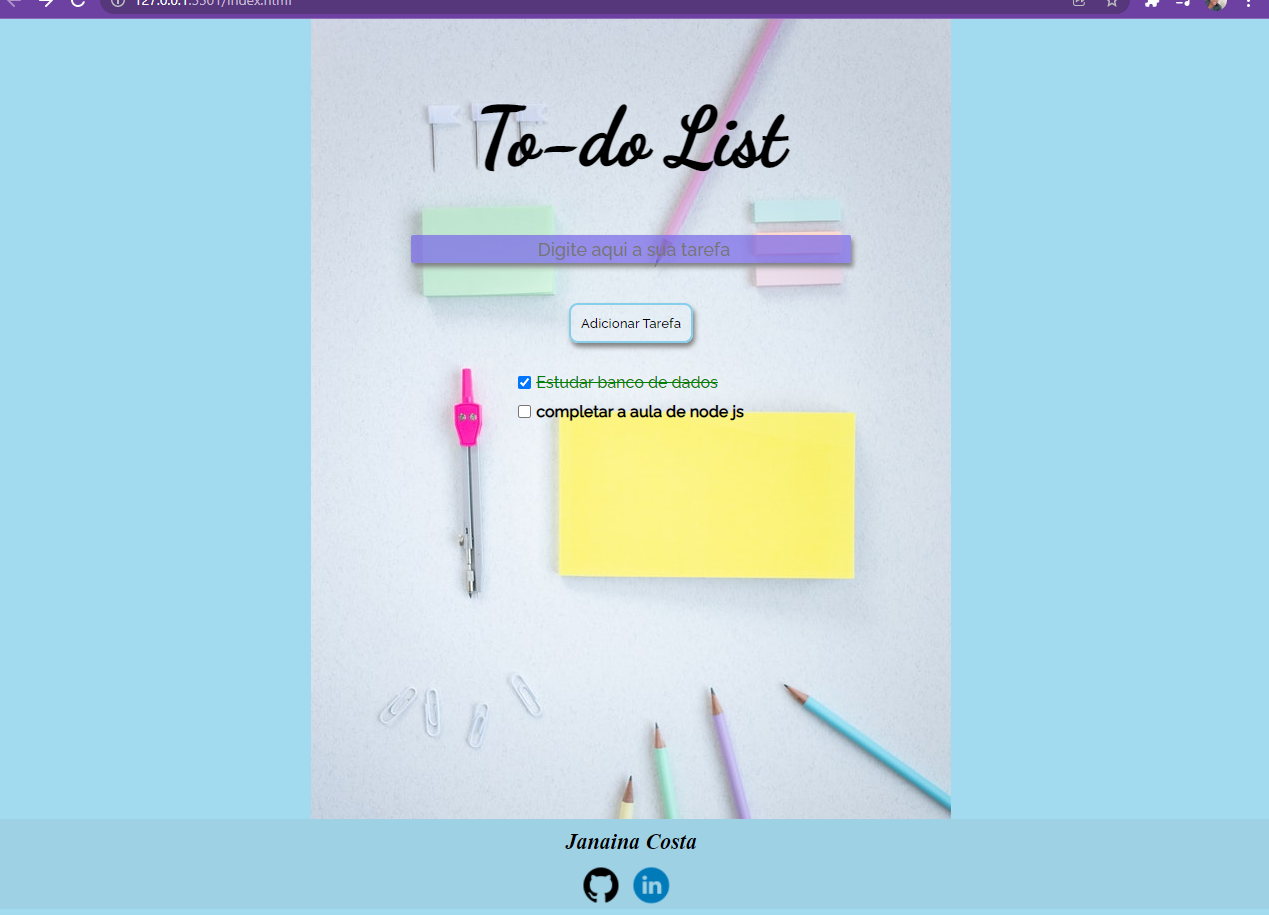
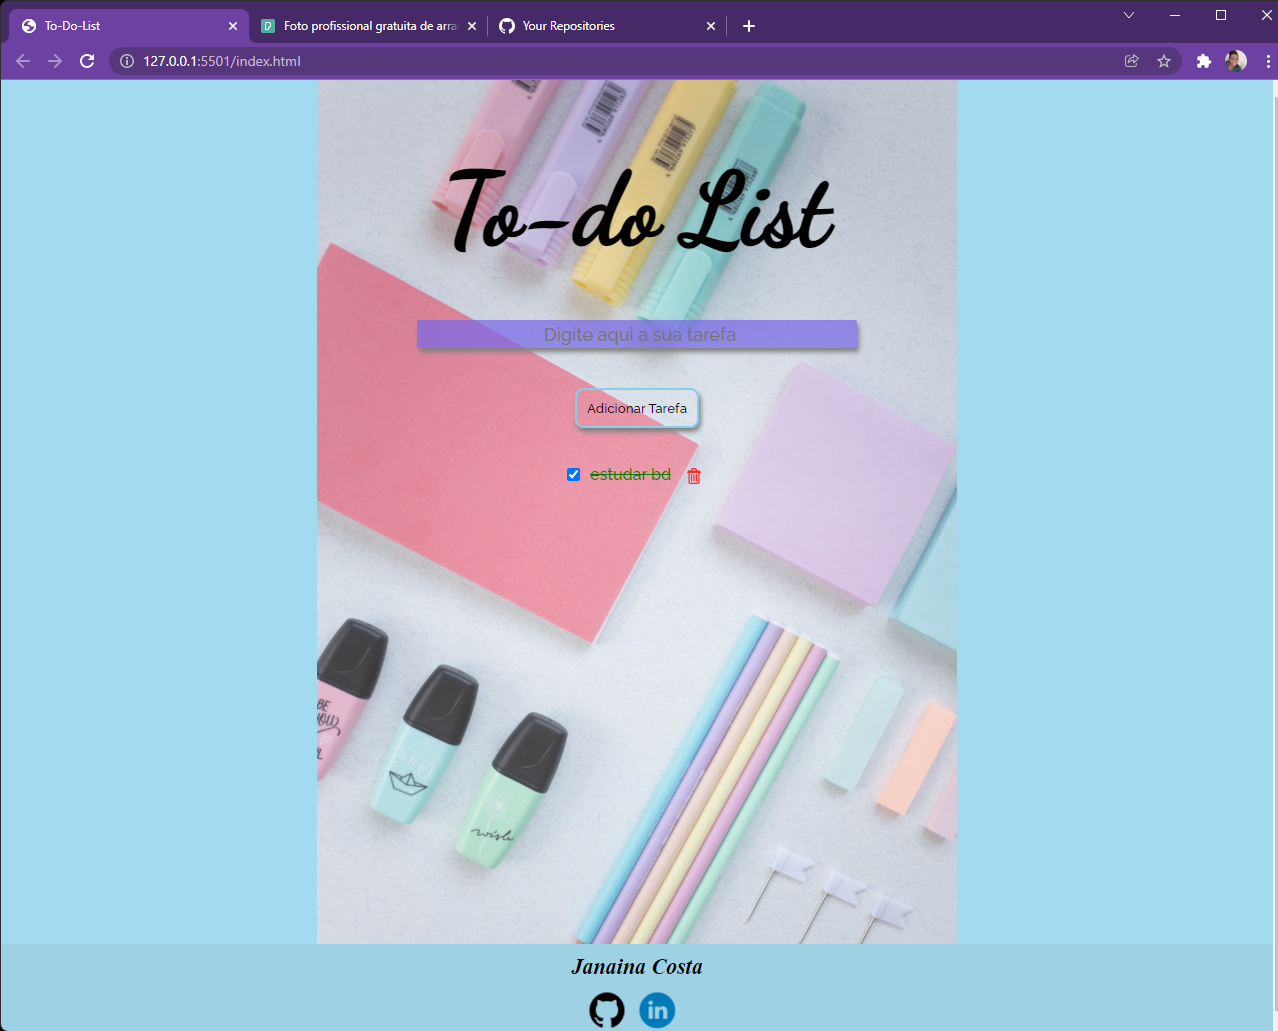
refatorado

diff --git a/assets/index.js b/assets/index.js
@@ -1,50 +1,141 @@
 
 const btnAdd = document.getElementById('btn-add')
 const lista = document.querySelector('#lista')
+//const excluirarefa = document.getElementById('excluir')
 
 
-btnAdd.addEventListener('click', (e, limite)=>{
+let limite = 5
+
+
+btnAdd.addEventListener('click', (e, tarefinha)=>{
     e.preventDefault()
-
+    
     const tarefa = document.getElementById('tarefa')
-    addTarefa(tarefa.value)
     
-    tarefa.value = ''
+    if(tarefa.value){
+        addTarefa(tarefa.value)
+
+    }else if(tarefa.value === ''){
+        tarefa.setAttribute('placeholder', `Preecha o campo antes de adicionar a tarefa \u{1F913}`)
+        //alert(`Preecha o campo antes de adicionar a tarefa \u{1F913}`)
+
+        tarefa.value = ''
+        
+    }
+
+    tarefa.addEventListener('focus', ()=>{
+        tarefa.setAttribute('placeholder', 'Digite aqui a sua tarefa')
+    })
+
     
+    tarefa.value = ''    
 
  })
 
+ /**   add tarefas a lista         */
+ 
+
 const addTarefa = (tarefinha)=>{
+
+    /**criando os elementos */
     
     const listaContainer = document.createElement('div')
     const novoInput = document.createElement('input') 
     const novoBr = document.createElement('br')
     const novaLabel = document.createElement('label')
     const textoLabel = document.createTextNode(tarefinha)
-
+    const btnExclusao = document.createElement('button')
+    const imagem = document.createElement('img')
     
+    const tarefa = document.getElementById('tarefa')
 
     novoInput.type = 'checkbox'
     novoInput.name = tarefinha
     novoInput.id= tarefinha
     
+    imagem.src = './assets/img/icon-exclud.png'
+    imagem.alt='Botao de excluir'
+    imagem.classList.add('img-config')
+
+    btnExclusao.appendChild(imagem)
+    btnExclusao.classList.add('btn-exclusao')
+  
 
     novaLabel.for = tarefinha
     novaLabel.appendChild(textoLabel)
+    // novaLabel.appendChild(btnExclusao)
 
     listaContainer.classList.add('delete')
-    listaContainer.appendChild(novoBr)
+    //listaContainer.appendChild(novoBr)
     listaContainer.appendChild(novoInput)
     listaContainer.appendChild(novaLabel)
+    listaContainer.appendChild(btnExclusao)
 
-    lista.appendChild(listaContainer)
+    lista.appendChild(listaContainer)   
+
+     /**================================================= */
+    /**limitando o tamanho da lista */
+
+    let lenghtLista = lista.children.length
     
-   
+    
+    if(lenghtLista>=limite && !novoInput.checked){
+        tarefa.disabled = true
+    }
+    
+    const controleLista = ()=>{
+        if(lenghtLista>limite ){
+            tarefa.disabled = true
+         }else if(lenghtLista<=limite) {
+            
+             tarefa.disabled = false
+        }
+    }
+    /**================================================= */
 
+
+    /**================================================= */
+    /**checando lista */
+
+    console.log(lenghtLista);
+    novoInput.addEventListener('change',(e)=>{
+       
+        e.preventDefault()
+       
+        limite+=1
+        
+        controleLista()
+        
+    })
+
+    /**================================================= */
+
+    /**================================================= */
+    /**tentando deletar elemento */
+    btnExclusao.addEventListener('click', (e)=>{
+        e.preventDefault()
+        
+        console.log(`limite${limite}`);
+        console.log(`tamanho${lenghtLista}`);
+        
+        
+        listaContainer.childNodes.forEach((item)=>{
+           
+           item.replaceWith('') 
+           lenghtLista= (limite -lenghtLista )-1
+           if(lenghtLista<=limite || controleLista()){
+               
+               tarefa.disabled = false
+            }
+            
+            
+            
+        }) 
+        
+        
+             
+            
+    })
 }
-
-
-
-
 
 

diff --git a/assets/style.css b/assets/style.css
@@ -19,8 +19,9 @@ body{
 h1{
     font-family: 'Dancing Script', cursive;
     margin-top: 70px;
-    font-size: 80px;
+    font-size: 100px;
     text-align: center;
+    
 
 }
 
@@ -29,13 +30,12 @@ div.container{
     flex-direction: column;
 
     margin: auto;
-    height: 50rem;
+    height: 54rem;
     width: 40rem;
 
-
-
-    background-image:url(./img/pexels-ekaterina-bolovtsova-6193090.jpg),linear-gradient(rgba(0, 0, 0, 0.856), rgba(0, 0, 0, 0.644)100%);
+    background-image:linear-gradient(rgba(168, 164, 164, 0.178), rgba(236, 229, 229, 0.288)100%), url(./img/fundo.jpeg);
     background-size: cover;
+    
     
 }
 
@@ -63,7 +63,7 @@ input[type=text]{
     font-family: 'Raleway', sans-serif;
 }
 
-button{
+button#btn-add{
     margin-top: 40px;
     padding: 10px;
     background-color: transparent;
@@ -74,7 +74,7 @@ button{
     margin-bottom: 30px;
     
 }
-button:hover{
+button#btn-add:hover{
     background-color: rgba(135, 207, 235, 0.438);
     transition: 1s;
     
@@ -83,6 +83,7 @@ button:hover{
 #lista{
     font-family: 'Raleway', sans-serif;
     font-weight:800;
+
 
     display: flex;
     flex-direction: column;
@@ -96,8 +97,10 @@ button:hover{
 }
 
 label{
-    text-align: justify;
-    margin-left: 5px;
+    text-align: end;
+    margin-left: 10px;
+    
+   
 }
 
 :checked + label{
@@ -108,6 +111,7 @@ label{
 
 .delete {
     display: flex;
+    
     align-items: center;
     margin-bottom: 10px;
   }
@@ -137,4 +141,21 @@ li{
 }
 li img{
     width: 40px;
+}
+.btn-exclusao{
+    
+    border-radius: unset;
+    margin: 5px 0px 1px;
+    margin-left: 10px;
+    bottom: 5px;
+    padding: 5px;
+    display: inline-flex;
+    border: none;
+    background-color: transparent;
+}
+
+.img-config{
+    width: 16px;
+    
+    
 }

diff --git a/index.html b/index.html
@@ -8,14 +8,19 @@
     <title>To-Do-List</title>
 </head>
 <body>
-        <div class="container">
-            <h1>To-do List</h1>
-            <div id="formulario">            
-                    <input type="text" id="tarefa" value="" placeholder="Digite aqui a sua tarefa">
-                    <button id="btn-add">Adicionar Tarefa</button>
+        <div>
+            <div class="container" >
+                <h1>To-do List</h1>
+                <div id="formulario">            
+                        <input type="text" id="tarefa" value="" placeholder="Digite aqui a sua tarefa">
+                        <button id="btn-add">Adicionar Tarefa</button>
+                        
+                </div>            
+                <div id="lista" class="box"></div>
+               
+                <!--<div id="excluir">ooooo</div>-->
             </div>
-            
-            <div id="lista" class="box"></div>
+
         </div>
         <footer>
             <h4>Janaina Costa</h4>
